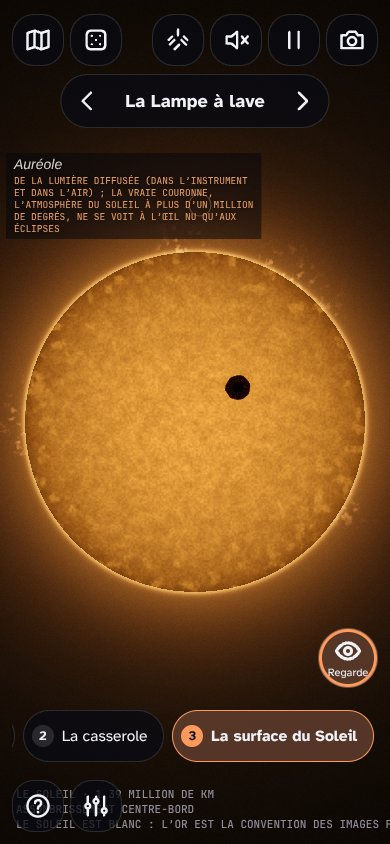
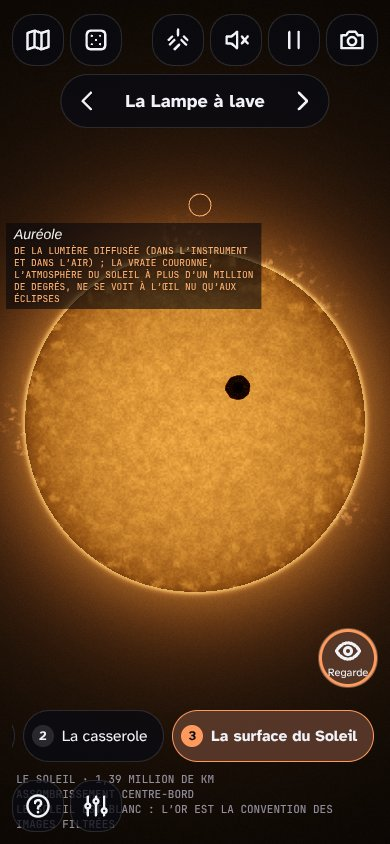
Soleil : l'étiquette de l'OBSERVER au-dessus du cercle du toucher (recontrôle de Constance) ; captures refaites
Claude-Session: https://claude.ai/code/session_01MS9d5JmMjbNw1P1jiRQA2y

diff --git a/app/js/machines/s-lave.js b/app/js/machines/s-lave.js
@@ -1246,7 +1246,6 @@ void main(){
       if ((label.rt = (label.rt || 0) + 1) % 20 === 0) label.m = readAt(label.x, label.y);
       const [name, role, col] = describe(label), v = view();
       const side = label.x > v.x0 + v.w * 0.5 ? -1 : 1, y0 = (env.view && env.view.y0) || 0;
-      let ly = label.y - 36 - 16 < y0 + 4 ? label.y + 46 : label.y - 36;
       ctx.save(); ctx.globalAlpha = a; ctx.strokeStyle = col; ctx.lineWidth = 1;
       ctx.beginPath(); ctx.arc(label.x, label.y, 11, 0, TAU); ctx.stroke();
       // un fond sombre sous le texte : il reste lisible même posé sur le disque doré du Soleil ou sur la lave ;
@@ -1261,7 +1260,11 @@ void main(){
       // l'étiquette reste dans l'écran : en 390 px, celle de l'auréole sortait par le bord et coupait la fin du texte
       const bh = 26 + lines.length * 12;
       const bx = clamp(side > 0 ? label.x + 32 : label.x - 32 - bw, v.x0 + 6, v.x0 + v.w - 6 - bw);
-      ly = Math.min(ly, H - 8 - bh + 16);
+      // tout entière au-dessus du cercle du toucher (avec quatre lignes, elle le recouvrait) ; en dessous si elle
+      // passerait sous la bande du haut
+      let top = label.y - 18 - bh;
+      if (top < y0 + 4) top = Math.min(label.y + 18, H - 8 - bh);
+      const ly = top + 16;
       const lx = bx + 8;
       ctx.fillStyle = 'rgba(6,6,12,.62)'; ctx.fillRect(bx, ly - 16, bw, bh);
       ctx.shadowColor = 'rgba(0,0,0,.9)'; ctx.shadowBlur = 6; ctx.textAlign = 'left';

diff --git a/docs/rendu/RENDU-A.md b/docs/rendu/RENDU-A.md
@@ -207,3 +207,10 @@ Proposée à Kurt, acceptée à quatre conditions, toutes tenues :
 4. **Même règle en paysage et en portrait.** Sur écran étroit, il y a deux orages au lieu de trois : à cette taille, trois se fondaient en un seul.
 
 Effet : des cumulonimbus environ 1,56 fois plus grands qu'en règle linéaire (et 1,8 fois plus grands que les objets au-dessus de 20 km), et une bande bleue de clair de lune plus haute. Le noir recule nettement. Captures : `foudre-atmo-labo.jpg` et `-tel.jpg`.
+
+## Recontrôle de Constance sur 47e38d7 (13/11, 20 h 15)
+
+La neige et le Soleil ne sont plus moches, ni les ronds en 1280. Suite :
+
+- **L'étiquette du Soleil** se place tout entière au-dessus du cercle du toucher. Avec quatre lignes, elle le recouvrait, et sous le disque elle passait sous « Regarde ». Si elle heurterait la bande du haut, elle passe en dessous. La capture `lave-soleil-aureole-labo-tel.jpg`, prise avant le correctif de la ligne d'état, est refaite. Nouvelle capture : `lave-soleil-sous-disque-labo-tel.jpg`.
+- **Ronds en 390, « des bandes douces »** : j'ai essayé une rampe de teinte plus raide sur l'azote. Les anneaux sont devenus plus sombres et boueux, pas plus nets : essai retiré. La douceur vient du modèle. L'azote libéré persiste environ 1,3 an derrière le front, d'où une bande large au bord intérieur flou. Les bandes vert sombre des vrais ronds font plutôt 10 à 30 cm, soit une persistance d'environ 0,5 à 1 an à 25 cm par an. Proposé à Kurt, pas fait.
